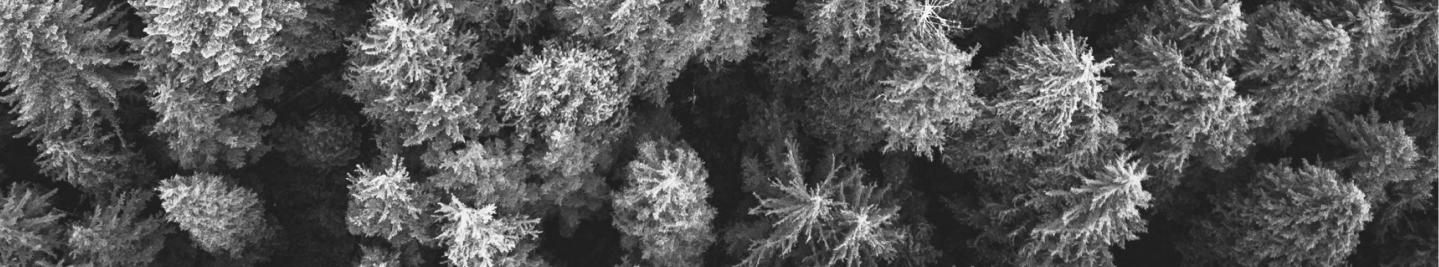
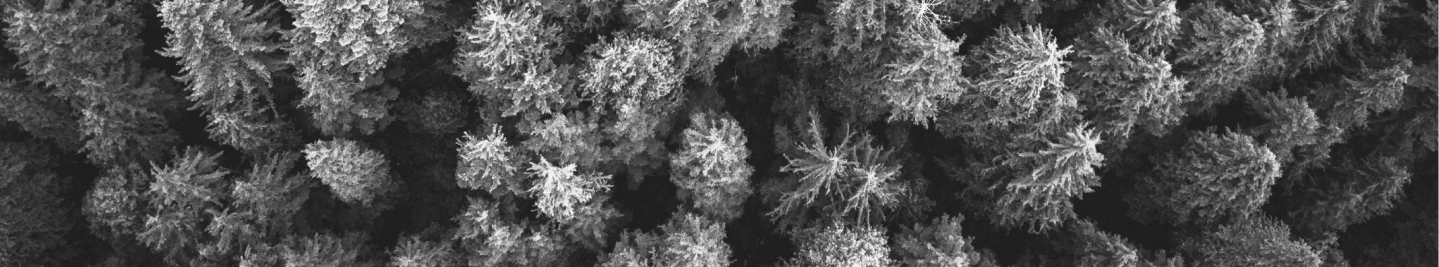
July 7 revisions for image resolution

diff --git a/styles/main.css b/styles/main.css
@@ -1176,7 +1176,7 @@ hr {
    background-position: top 7rem left 50%;
    background-repeat: no-repeat;
    background-size: contain;
-   min-height: 60vh;
+   min-height: 70vh;
  }
 
  .parallax-survey {
@@ -1186,27 +1186,27 @@ hr {
    background-repeat: no-repeat;
    background-size: contain;
    background-size: 90%;
-   min-height: 60vh;
+   min-height: 70vh;
 }
 
 .parallax-personas {
   background-attachment: fixed;
-  background-image: url("../images/desktop/personas.png");
-  background-position: top 15vh left 50%;
+  background-image: url("../images/mobile/personas.png");
+  background-position: top 10vh left 50%;
   background-repeat: no-repeat;
   background-size: contain;
-  background-size: 70vw;
-  min-height: 60vh;
+  background-size: 100vw;
+  min-height: 70vh;
 }
 
 .parallax-sitemap {
   background-attachment: fixed;
   background-image: url("../images/desktop/sitemap.png");
-  background-position: top 10rem left 50%;
+  background-position: center top 1rem;
   background-repeat: no-repeat;
   background-size: contain;
   background-size: 100vh;
-  min-height: 60vh;
+  min-height: 70vh;
 }
 
 .parallax-wireframes {
@@ -1215,7 +1215,7 @@ hr {
   background-position: top 10rem left 50%;
   background-repeat: no-repeat;
   background-size: contain;
-  min-height: 60vh;
+  min-height: 70vh;
 }
 
 .parallax-visual {
@@ -1225,7 +1225,7 @@ hr {
   background-repeat: no-repeat;
   background-size: contain;
   background-size: 100vh;
-  min-height: 60vh;
+  min-height: 70vh;
 }
 
 .parallax-mockups {
@@ -1235,7 +1235,7 @@ hr {
   background-repeat: no-repeat;
   background-size: contain;
   background-size: 100vh;
-  min-height: 60vh;
+  min-height: 70vh;
 }
 
 .parallax-prototypes {
@@ -1245,7 +1245,7 @@ hr {
   background-repeat: no-repeat;
   background-size: contain;
   max-width: 1500px;
-  min-height: 60vh;
+  min-height: 70vh;
   width: 100%;
 }
 
@@ -1440,6 +1440,7 @@ hr {
     justify-content: space-between;
     margin-left: 5vw;
     margin-right: 5vw;
+    margin-top: 3rem;
   }
 
   .col-3-flex div {
@@ -1611,8 +1612,8 @@ hr {
   .enter-mobile-flex {
     margin-left: auto;
     margin-right: auto;
-    max-width: 1200px;
-    width: 90vw;
+    max-width: 90%;
+    width: 100vw;
   }
 
   .enter-mobile-1, .enter-mobile-2, .enter-mobile-3 {
@@ -1768,6 +1769,16 @@ hr {
     background-size: 75%;
   }
 
+  .parallax-personas {
+    background-image: url("../images/desktop/personas.png");
+    background-size: 90vw;
+  }
+
+  .parallax-prototypes {
+    background-image: url("../images/desktop/mobile-triptic-wide.png");
+    background-size: 90%;
+  }
+
   .col-4-flex {
     display: flex;
     flex-wrap: nowrap;
@@ -1857,14 +1868,13 @@ hr {
     max-width: 30%;
   }
 
+  .enter-mobile-flex {
+    max-width: 60%;
+  }
+
   .large-margin {
     margin-left: 20vw;
     margin-right: 20vw;
-  }
-
-  .parallax-prototypes {
-    background-image: url("../images/desktop/mobile-triptic-wide.png");
-    background-size: 90%;
   }
 }
 
@@ -1893,11 +1903,17 @@ hr {
   }
 
   .parallax-prototypes {
-    background-image: url("/images/desktop/mobile-triptic-wide.png")
+    background-image: url("/images/desktop/mobile-triptic-wide.png");
+    background-position: top 20vh left 50%;
+    background-size: 1400px;
   }
 
   .parallax-survey {
     background-size: 1000px;
+  }
+
+  .parallax-personas {
+    background-size: 1440px;
   }
 
   .key-takeaway {

diff --git a/index.html b/index.html
@@ -61,7 +61,7 @@
             <h3>I'm Kelsey,<br>a UX and UI designer<br>in Oakland, CA</h3>
             <h4>I take an <span class="bold">ecosystem approach to design</span>, creating UX and UI that will thrive in the wild.</h4>
           </div>
-          <img src="images/trees.png" alt="black and white areal photo of coniferous trees" class="hello-img">
+          <img src="images/trees.png" alt="black and white areal photo of coniferous trees" class="hello-img margin-bottom">
           <div class="intro-2">
             <p>With an background in environmental conservation, I want to know:</p>
             <blockquote>In what environment does the product live?</blockquote>

diff --git a/contact.html b/contact.html
@@ -55,6 +55,10 @@
           </form>
       </main>
 
+      <div class="img-wrapper">
+        <img src="images/holey-rock.png" alt="black and white photo of a porous rock surface">
+      </div>
+
       <footer>
         <div class="content">
           <a href="https://www.linkedin.com/in/kelseyingrid/">
